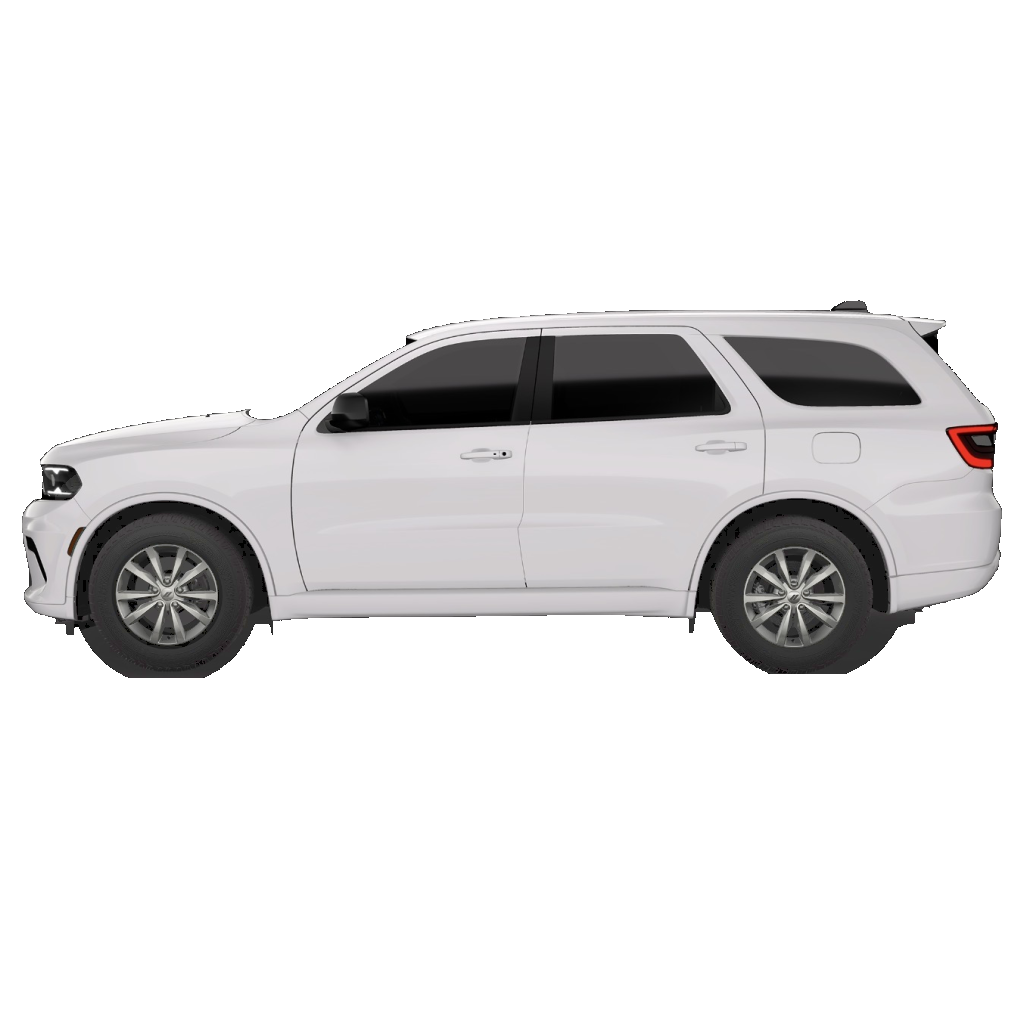
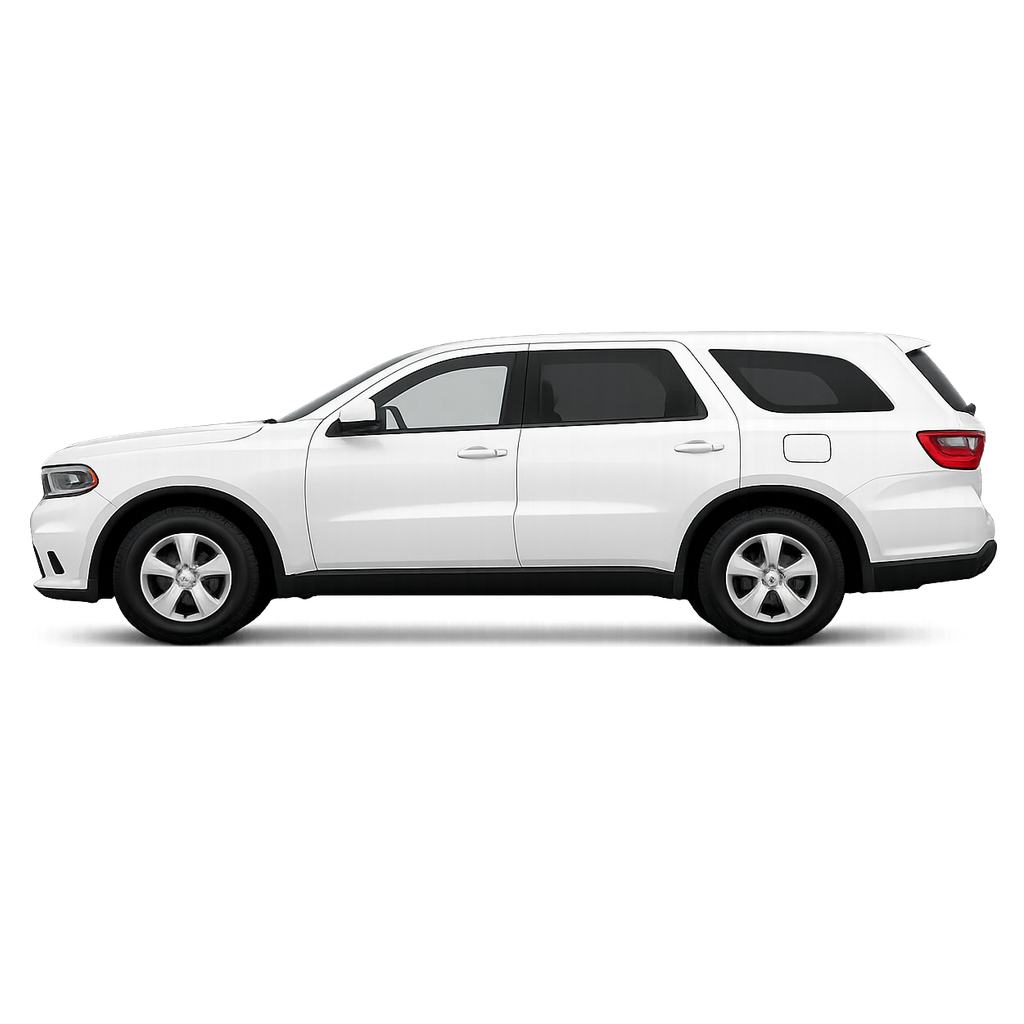
Copy signed-off Durango Left plate from piu-lighting-visualizer
Exact bytes from 9z2zc74skw-dev/piu-lighting-visualizer@b95061d
client/public/durango_left.png (1024x1024 RGBA, 469073 bytes).
Cache-bust ASSET_V=studio5. No Right flip, no other views.

Changed region(s): [[0.0, 0.2812, 1.0, 0.6875]]

diff --git a/visualizer/index.html b/visualizer/index.html
@@ -196,7 +196,7 @@ select:focus,input[type=text]:focus{box-shadow:0 0 0 2px color-mix(in srgb,var(-
 (function(){
 /* Multi-canvas visualizer. Catalog is shared FedSig SKUs (no invented lights).
    Durango mounts stay as previously signed; trucks have their own snaps. */
-var ASSET_V="studio4";
+var ASSET_V="studio5";
 var FX_V="max4";
 var DURANGO_VIEWS=[
   {id:"front",label:"Front",imgW:"durango_front.png",imgB:"durango_front_black.png"},
